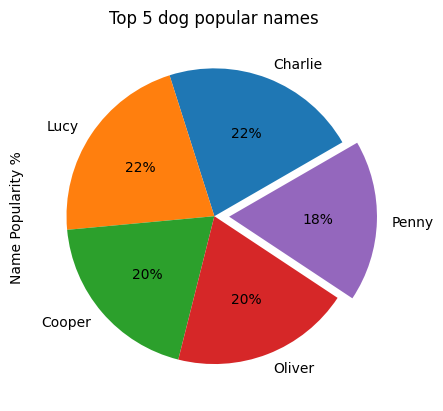
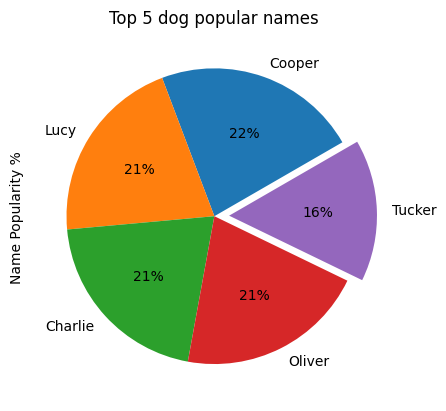
Final Edits on wrangle act. Finish all reports.

diff --git a/wrangle_report.html b/wrangle_report.html
@@ -4,9 +4,75 @@
     <meta charset="UTF-8" />
     <meta name="viewport" content="width=device-width, initial-scale=1.0" />
     <title>Wrangle Report 🧾</title>
-    <link rel="stylesheet" href="/assets/master.css">
+    <link rel="stylesheet" href="/assets/master.css" />
   </head>
   <body>
-    <header>WeRateDogs 🐶 Twitter EDA 📊 2015 - 2017 📅</header>
+    <header>
+      <div class="parent">
+        <nav>
+          <a href="#intro">Introduction</a>
+          <a href="#challenges">Trends</a>
+          <a href="#eda">EDA</a>
+          <a href="#conclusion">Conclusion</a>
+        </nav>
+      </div>
+    </header>
+    <section>
+      <div class="parent">
+        <h1>WeRateDogs 🐶 Twitter EDA 📊 2015 - 2017 📅</h1>
+        <h2 id="#intro">Introduction</h2>
+        <div class="title">
+          The WeRateDogs data analysis project was an insightful yet challenging
+          endeavor, particularly in the phases of assessing and cleaning the
+          data. The primary hurdles were the variability in data quality and the
+          diverse formats in which the information was presented.
+        </div>
+        <h2 id="challenges">Challenges</h2>
+        <div class="title">
+          The most challenging phase in this project was the cleaning step #06,
+          which involved consolidating the doggo, floofer, pupper, and puppo
+          columns into a single column named characteristic. This task was
+          particularly demanding due to the presence of numerous NaN values and
+          the introduction of duplicates after employing the pd.melt() function.
+          Ensuring the accuracy of the name column by filtering out non-real
+          names embedded within text added another layer of complexity. The
+          assessment process, both visual and programmatic, was crucial in
+          identifying these issues and ensuring data quality. Developing robust
+          scripts to automate repetitive cleaning tasks was essential. Despite
+          being time-consuming, these scripts were vital for maintaining data
+          integrity, allowing for efficient and consistent data processing.
+          Ultimately, overcoming these challenges in the data cleaning phase was
+          instrumental in ensuring the reliability of the dataset. The
+          meticulous efforts in addressing NaN values, duplicates, and
+          inaccurate names laid a solid foundation for meaningful analysis,
+          leading to accurate insights and a deeper understanding of the
+          WeRateDogs data.
+        </div>
+        <h2 id="eda">EDA</h2>
+        <div class="title">
+          As for EDA it highlights many helpful things as Atticus as the
+          top-rated dog, Highest favorite count dog characteristic is Puppo, and
+          highest retweet count dog characteristic is Doggo. The trends in
+          engagement suggest that unique and engaging content significantly
+          influences social media metrics. Pupper is the most popular dog
+          characteristic. The top five dog names indicate a preference for
+          traditional and popular names. Further analysis could explore the
+          correlation between specific attributes and engagement metrics.
+        </div>
+        <div class="poster">
+          <img src="/assets/popularity.png" alt=" Popularity" class="s">
+          <img src="/assets/retweet_favorite.png" alt="Retweet Favorite" class="s">
+          <img src="/assets/top_five_names.png" alt="Top Five Names" class="s">
+        </div>
+        <h2 id="conclusion">Conclusion</h2>
+        <div class="title">
+          In conclusion, while the assessment and cleaning phases presented
+          significant obstacles, overcoming them was crucial for the project's
+          success. The efforts invested in these stages ensured the reliability
+          and validity of the analysis, ultimately leading to actionable
+          insights and a deeper understanding of the WeRateDogs data.
+        </div>
+      </div>
+    </section>
   </body>
 </html>

diff --git a/act_report.html b/act_report.html
@@ -11,8 +11,8 @@
       <div class="parent">
         <nav>
           <a href="#intro">Introduction</a>
-          <a href="#">Trends</a>
-          <a href="#">Populartiy</a>
+          <a href="#trends">Trends</a>
+          <a href="#celebrities">Celebrities</a>
           <a href="#">Summary</a>
         </nav>
       </div>
@@ -50,12 +50,97 @@
     <section id="trends">
       <div class="parent">
         <h2>Trends 📊</h2>
-        <div class="title">Here we can see that Pupper is the most popular dog characteristic 🐩 with 66%</div>
+        <div class="title d">
+          Here we can see that <span class="h">Pupper</span> is the most popular
+          dog <span class="h">characteristic</span> 🐩 with 66%
+        </div>
         <div class="poster">
           <img
             src="/assets/popularity.png"
             alt="Characteristic Trend Pie Plot"
           />
+        </div>
+        <div class="title d">
+          If we compare <span class="h">Favorite</span> and
+          <span class="h">Retweet</span> Count. We will notice that
+          <span class="h">Favorite</span> count is nearly twice larger than
+          <span class="h">Retweet</span> count.
+        </div>
+        <div class="poster">
+          <img
+            src="/assets/retweet_favorite.png"
+            alt="Retweet Favorite count Trend Pie Plot"
+          />
+        </div>
+
+        <div class="title d">
+          Also here is the top five popular names.
+          <span class="h">Cooper</span> name has the lions share 🦁.
+        </div>
+        <div class="poster">
+          <img
+            src="/assets/top_five_names.png"
+            alt="The top five names Pie Plot"
+          />
+        </div>
+      </div>
+    </section>
+
+    <section id="celebrities">
+      <div class="parent">
+        <h2>Celebrities 🐕😎</h2>
+        <div class="title d">
+          Here is the
+          <a
+            href="https://twitter.com/dog_rates/status/822872901745569793"
+            target="_blank"
+            >heighest dog gets Favorite count</a
+          >. With about 132.8k ❤
+        </div>
+        <div class="poster">
+          <img
+            src="/assets/favorite.png"
+            alt="heighest dog gets Favorite count Trend Pie Plot"
+          />
+        </div>
+        <div class="title d">
+          In addition here is the
+          <a
+            href="https://twitter.com/dog_rates/status/744234799360020481"
+            target="_blank"
+            >heighest dog gets Retweet count</a
+          >. With about 79.5k 🔁
+        </div>
+        <div class="poster">
+          <img
+            src="/assets/retweet.png"
+            alt="heighest dog gets Retweet count Trend Pie Plot"
+          />
+        </div>
+        <div class="title d">
+          But when we ask for the top rated 🔝
+          <a
+            href="https://twitter.com/dog_rates/status/749981277374128128"
+            target="_blank"
+            >dog</a
+          >. That takes 1776/10 🤯. To be the top rated dog until this day.
+        </div>
+        <div class="poster">
+          <img src="/assets/top_rated.png" alt="The top rated dog Pie Plot" />
+        </div>
+      </div>
+    </section>
+
+    <section id="summary">
+      <div class="parent">
+        <h2>Conclusion 🤠</h2>
+        <div class="title">
+          This report highlights Atticus as the top-rated dog, Highest favorite count dog characteristic is Puppo, and highest retweet count dog characteristic is Doggo.
+          The trends in engagement suggest that unique and engaging content
+          significantly influences social media metrics. Pupper is the most popular dog characteristic. The top five dog names
+          indicate a preference for traditional and popular names. Further
+          analysis could explore the correlation between specific attributes and
+          engagement metrics.
         </div>
       </div>
     </section>

diff --git a/assets/master.css b/assets/master.css
@@ -85,6 +85,10 @@ section h1 {
   max-width: 900px;
 }
 
+section h2 {
+  padding: 20px 0;
+}
+
 section .by {
   color: #2d2d2d;
 }
@@ -106,6 +110,15 @@ section .title {
 }
 
 .poster img {
-  width: 500px;
+  width: 600px;
   border-radius: 10px;
+}
+
+.poster img.s {
+  width: 400px;
+}
+
+.d {
+  border-left: 5px solid #3f51b5;
+  padding: 0 20px;
 }
